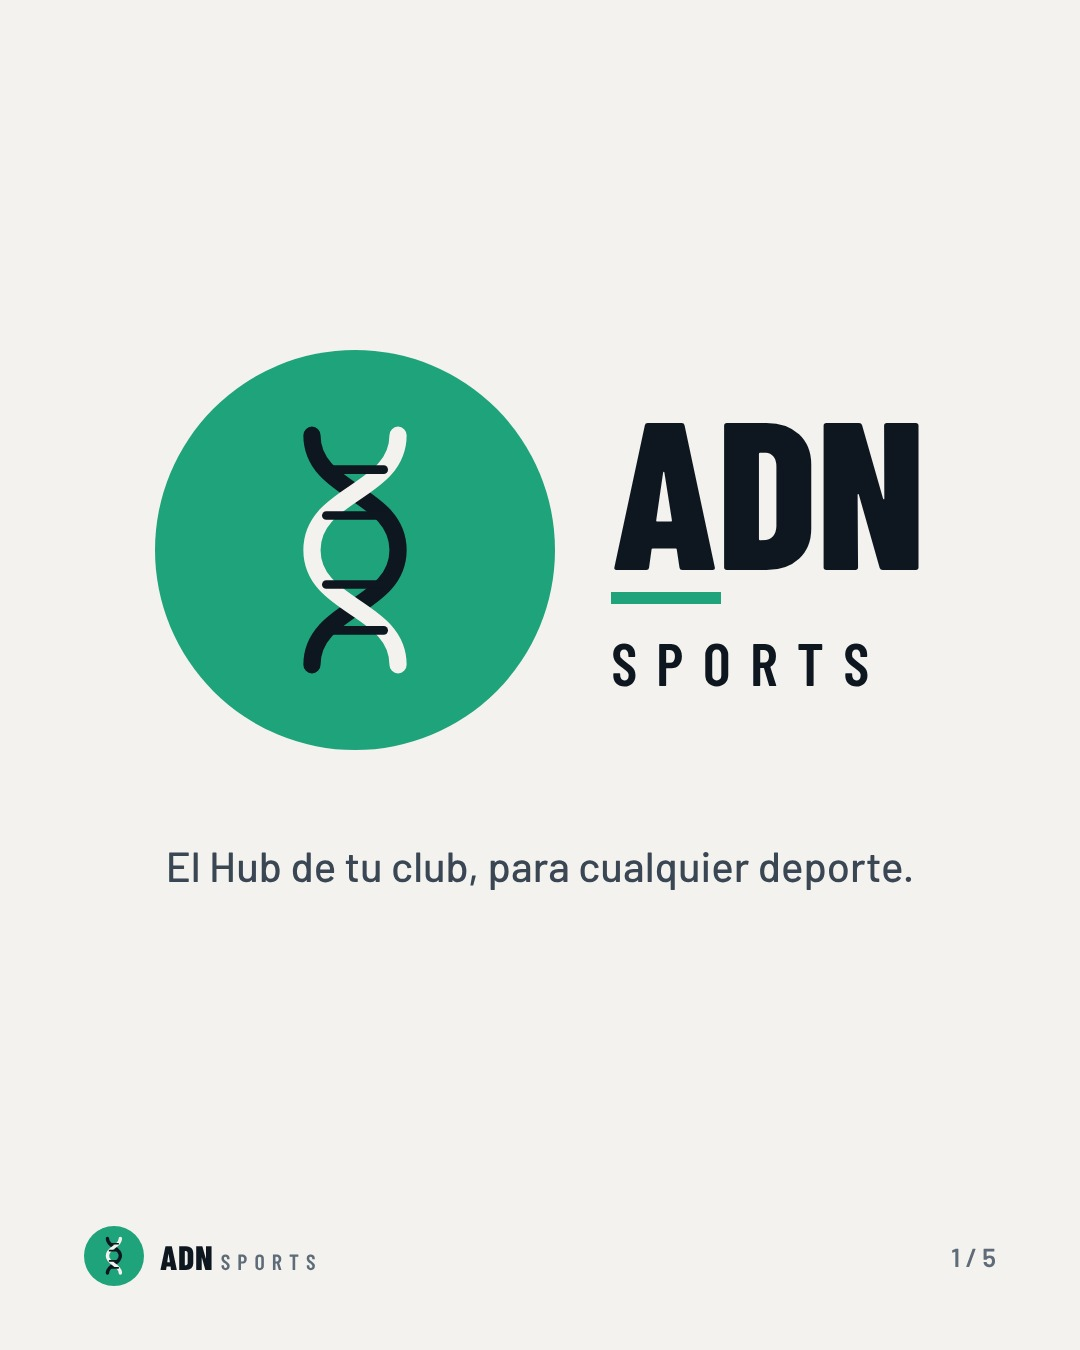
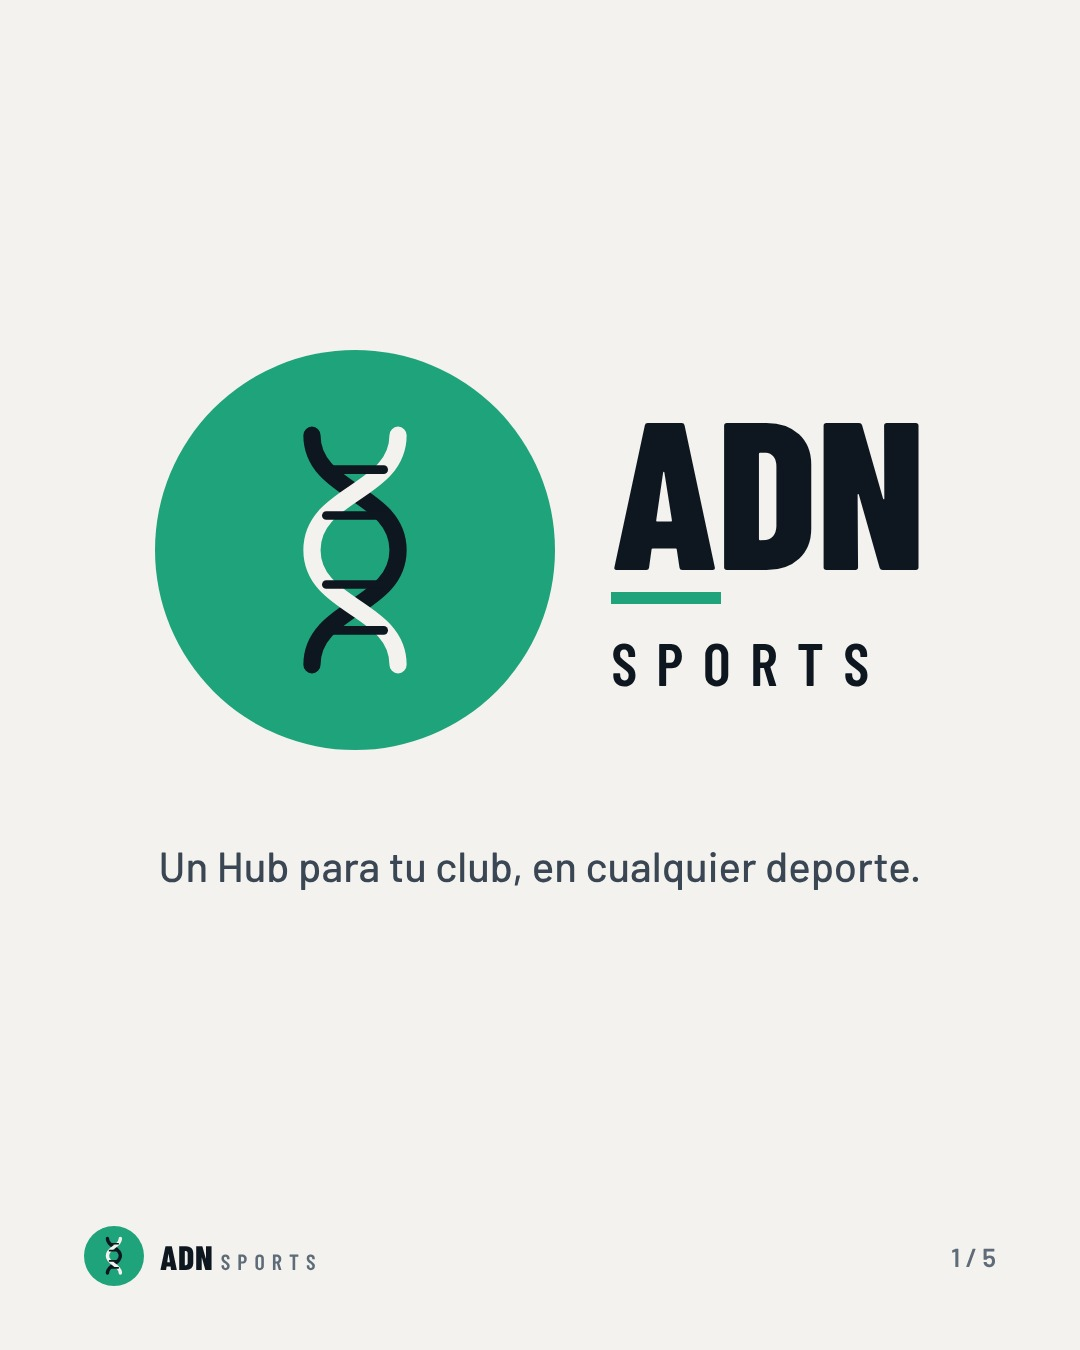
Textos: «un Hub» en lugar de «el Hub»
Claude-Session: https://claude.ai/code/session_01DY6iudhp7zRP8ZBDTtjtK8

Changed region(s): [[0.1528, 0.6222, 0.8556, 0.6533]]

diff --git a/adn-web/index.html b/adn-web/index.html
@@ -3,10 +3,10 @@
   <head>
     <meta charset="UTF-8" />
     <meta name="viewport" content="width=device-width, initial-scale=1.0" />
-    <title>ADN Sports · El Hub de tu club</title>
+    <title>ADN Sports · Un Hub para tu club</title>
     <meta name="description" content="Plantel, wellness, partidos, GPS y video de tu club en un solo lugar. Rugby, hockey, fútbol, básquet y más. Probá la demo con un club ficticio." />
     <meta name="theme-color" content="#F4F2EE" />
-    <meta property="og:title" content="ADN Sports · El Hub de tu club" />
+    <meta property="og:title" content="ADN Sports · Un Hub para tu club" />
     <meta property="og:description" content="Plantel, wellness, partidos, GPS y video en un solo lugar. Para clubes de cualquier deporte." />
     <link rel="icon" type="image/svg+xml" href="/icon.svg" />
     <link rel="preconnect" href="https://fonts.googleapis.com" />

diff --git a/adn-panel/scripts/render_verde.py b/adn-panel/scripts/render_verde.py
@@ -86,13 +86,13 @@ POSTS["01-presentacion"] = [
           <div style="font:600 60px BC;letter-spacing:.32em">SPORTS</div>
         </div>
       </div>
-      <div style="font:500 42px B;color:{SUB}">El Hub de tu club, para cualquier deporte.</div>
+      <div style="font:500 42px B;color:{SUB}">Un Hub para tu club, en cualquier deporte.</div>
     </div>""", 1, T),
     texto("Quiénes somos", 'Venimos <span class="n">del rugby.</span>',
           "Staff, entrenadores y preparadores. Los martes y jueves a la noche, al costado de la cancha.", 2, T),
     texto("El problema", 'Nos cansamos de <span class="n">las planillas.</span>',
           "Grupos de WhatsApp, un Excel que nadie actualiza y la lista de asistencia en papel. Todo en lugares distintos.", 3, T),
-    texto("La solución", 'Armamos <span class="n">el Hub.</span>',
+    texto("La solución", 'Armamos <span class="n">un Hub.</span>',
           "Plantel, wellness, partidos, GPS y video de los partidos en un solo lugar, desde el celular.", 4, T, 180),
     placa(f"""
     <div class="c" style="gap:44px">
